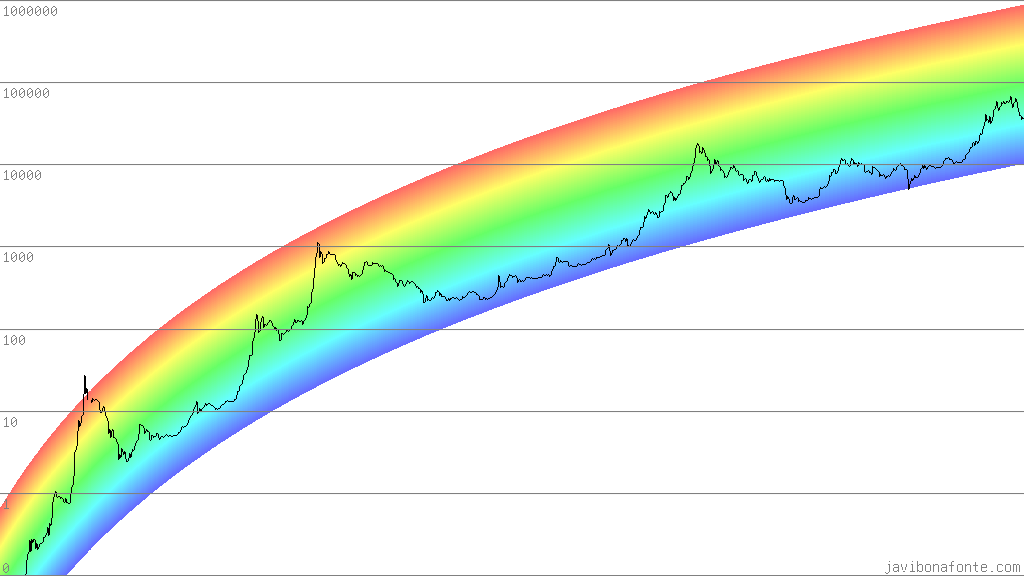
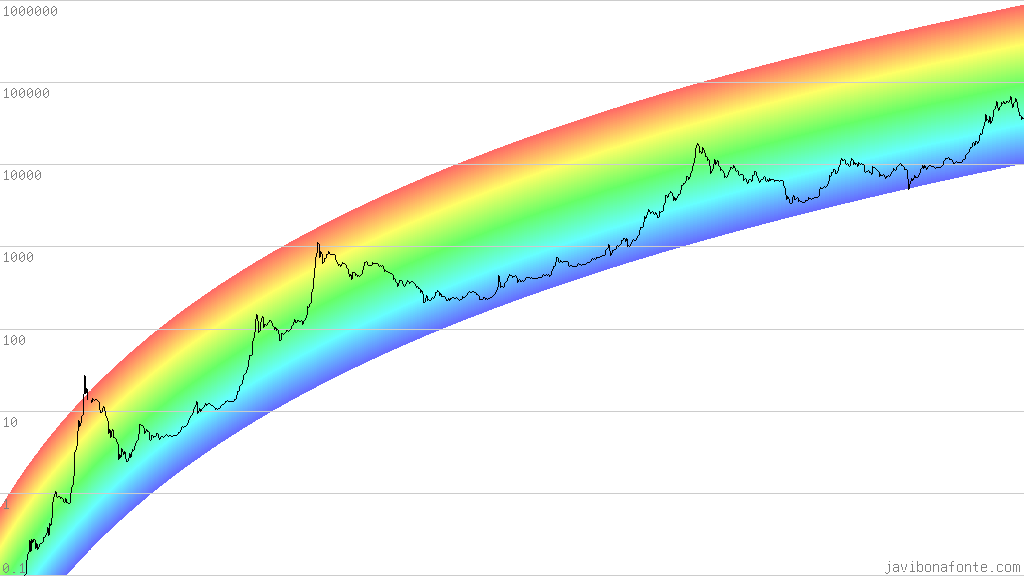
Axis work for both scales and more refactoring

diff --git a/src/myimgproc/myimgproc.c b/src/myimgproc/myimgproc.c
@@ -9,6 +9,7 @@
 #include <string.h>
 #include <MagickWand/MagickWand.h>
 
+#include "../util/util.h"
 #include "myimgproc.h"
 
 #define FONT "Unifont" // Font family
@@ -47,40 +48,6 @@ int magick_write_img (MagickWand *magick_wand, char *img_path) {
         fprintf (stderr, "Couldn't write image '%s'\n", img_path);
         code = 1;
     }
-
-    return code;
-}
-
-/**
- * Draws line of 'color' from 'sx','sy' to 'ex','ey' to image in
- * 'magick_wand'.
- */
-int draw_line (MagickWand *magick_wand, double sx, double sy,
-        double ex, double ey, char *color) {
-
-    int code = 0;
-    MagickBooleanType status;
-
-    DrawingWand *drawing_wand;
-    PixelWand *pixel_wand;
-
-    drawing_wand = NewDrawingWand ();
-    pixel_wand = NewPixelWand ();
-
-    // Sets drawing wand
-    PixelSetColor (pixel_wand, color);
-    DrawSetStrokeColor (drawing_wand, pixel_wand);
-
-    // Draws line
-    DrawLine (drawing_wand, sx, sy, ex, ey);
-    status = MagickDrawImage (magick_wand, drawing_wand);
-    if (status == MagickFalse) {
-        fprintf (stderr, "Couldn't draw line\n");
-        code = 1;
-    }
-
-    drawing_wand = DestroyDrawingWand (drawing_wand);
-    pixel_wand = DestroyPixelWand (pixel_wand);
 
     return code;
 }
@@ -164,29 +131,39 @@ int annotate_watermark (MagickWand *magick_wand, int width, int height,
 }
 
 /**
- * Paints logarithmic scale y axis lines on 'img' from 'min' to 'max'.
- * Each line marks '10 * previous line'.
+ * Paints y axis values on 'img' from 'min' to 'max'. The color is 'color'.
+ *
+ *      - If the scale is linear, each line marks 'step' more than the
+ *      previous one.
+ *      - If the scale is logarithmic, each line marks 'y * step' more than
+ *      the previous one.
  */
-int paint_log_axis (MagickWand *magick_wand, int width, int height,
-        float min, float max, char *color) {
+int annotate_axis_values (MagickWand *magick_wand, int width, int height,
+        float min, float max, int scale, float step, char *color) {
 
     int code = 0;
-    float log_min = log (min);
-    float log_max = log (max);
+
+    float scaled_min = apply_scale (scale, min);
+    float scaled_max = apply_scale (scale, max);
     int j, j_text;
+    float y;
 
     const int pad = 2;
     char text[10];
 
-    for (float y = min; y <= max; y *= 10) {
+    y = min;
+    while (y <= max) {
 
-        j = height - (log (y) - log_min) * height / (log_max - log_min);
+        j = height - (apply_scale (scale, y) - scaled_min) * height
+            / (scaled_max - scaled_min);
+        if (j == height)
+            j--;
 
-        code = draw_line (magick_wand, 0, j, width - 1, j, color);
-        if (code != 0)
-            return code;
+        if (y != (int) y)
+            sprintf (text, "%.1f", y);
+        else
+            sprintf (text, "%.0f", y);
 
-        sprintf (text, "%.0f", y);
         j_text = j + FONT_SIZE;
         if (j_text > height)
             j_text = j - pad;
@@ -194,6 +171,16 @@ int paint_log_axis (MagickWand *magick_wand, int width, int height,
         code = annotate_img (magick_wand, pad, j_text, 0, text, color);
         if (code != 0)
             return code;
+
+        switch (scale) {
+            case linear:
+            default:
+                y += step;
+                break;
+            case logarithmic:
+                y *= step;
+                break;
+        }
     }
 
     return code;

diff --git a/src/btc-charts.c b/src/btc-charts.c
@@ -4,8 +4,6 @@
  * Javi Bonafonte
  *
  * TODO
- *  - use only MagickWand ?
- *  - add anotations (prices, dates, ...)
  *  - stock to flow
  */
 
@@ -14,6 +12,7 @@
 #include <math.h>
 #include <MagickWand/MagickWand.h>
 
+#include "util/util.h"
 #include "myimg/myimg.h"
 #include "myimgproc/myimgproc.h"
 
@@ -31,8 +30,6 @@ struct row {
     char date[STR_LEN];
     float price;
 };
-
-enum scales {linear, logarithmic};
 
 /**
  * Returns number of lines in 'fp'.
@@ -108,26 +105,6 @@ int get_max_price (struct row *rows, int num_rows) {
     }
 
     return max_price;
-}
-
-/**
- * Applies 'scale' to 'value' and returns it.
- */
-float apply_scale (int scale, float value) {
-
-    switch (scale) {
-
-        case linear:
-            return value;
-
-        case logarithmic:
-            if (value <= 0)
-                return value;
-            return (float) log (value);
-
-        default:
-            return -1;
-    }
 }
 
 /**
@@ -243,9 +220,15 @@ int generate_img (struct row *rows, int num_rows) {
 
     paint_img_background (img, WIDTH, HEIGHT, 0, 0, 0, 0);
 
-    //paint_price (img, rows, num_rows, 0, 65000, linear);
+    /*
+    paint_axis (img, WIDTH, HEIGHT, 0, 65000, linear, 10000,
+            204, 204, 204, 255);
+    paint_price (img, rows, num_rows, 0, 65000, linear);
+    */
 
     paint_trololo (img, 554, num_rows + 554, 0.1, 1000000, logarithmic);
+    paint_axis (img, WIDTH, HEIGHT, 0.1, 1000000, logarithmic, 10,
+            204, 204, 204, 255);
     paint_price (img, rows, num_rows, 0.1, 1000000, logarithmic);
 
     // Writes 'img' buffer to file
@@ -276,9 +259,17 @@ int process_img () {
     if (code != 0)
         goto finalise;
 
+    /*
+    // Paints linear axis
+    code = annotate_axis_values (magick_wand, WIDTH, HEIGHT, 0, 65000,
+            linear, 10000, "rgb(128, 128, 128)");
+    if (code != 0)
+        goto finalise;
+        */
+
     // Paints log axis
-    code = paint_log_axis (magick_wand, WIDTH, HEIGHT,
-            0.1, 1000000, "rgb(128, 128, 128)");
+    code = annotate_axis_values (magick_wand, WIDTH, HEIGHT, 0.1, 1000000,
+            logarithmic, 10, "rgb(128, 128, 128)");
     if (code != 0)
         goto finalise;
 

diff --git a/src/myimg/myimg.c b/src/myimg/myimg.c
@@ -9,6 +9,7 @@
 #include <math.h>
 #include <png.h>
 
+#include "../util/util.h"
 #include "myimg.h"
 
 #define CHAN 4 // Channels of the color mode
@@ -95,6 +96,45 @@ void paint_img_background (int *img, int width, int height,
     for (x = 0; x < width; x++) {
         for (y = 0; y < height; y++)
             set_rgba (img, width, x, y, r, g, b, a);
+    }
+}
+
+/**
+ * Paints y axis lines on 'img' from 'min' to 'max'. The color is 'rgba'.
+ *
+ *      - If the scale is linear, each line marks 'step' more than the
+ *      previous one.
+ *      - If the scale is logarithmic, each line marks 'y * step' more than
+ *      the previous one.
+ */
+void paint_axis (int *img, int width, int height, float min, float max,
+        int scale, float step, int r, int g, int b, int a) {
+
+    float scaled_min = apply_scale (scale, min);
+    float scaled_max = apply_scale (scale, max);
+    int x, j;
+    float y;
+
+    y = min;
+    while (y <= max) {
+
+        j = height - (apply_scale (scale, y) - scaled_min) * height
+            / (scaled_max - scaled_min);
+        if (j == height)
+            j--;
+
+        for (x = 0; x < width; x++)
+            set_rgba (img, width, x, j, r, g, b, a);
+
+        switch (scale) {
+            case linear:
+            default:
+                y += step;
+                break;
+            case logarithmic:
+                y *= step;
+                break;
+        }
     }
 }
 

diff --git a/src/util/util.c b/src/util/util.c
@@ -1,0 +1,30 @@
+/**
+ * Library with my general purpose functions.
+ *
+ * Javi Bonafonte
+ */
+
+#include <math.h>
+
+#include "util.h"
+
+/**
+ * Applies 'scale' to 'value' and returns it.
+ */
+float apply_scale (int scale, float value) {
+
+    switch (scale) {
+
+        case linear:
+            return value;
+
+        case logarithmic:
+            if (value <= 0)
+                return value;
+            return (float) log (value);
+
+        default:
+            return -1;
+    }
+}
+

diff --git a/src/myimgproc/myimgproc.h b/src/myimgproc/myimgproc.h
@@ -4,4 +4,5 @@ enum corner {top_left, top_right, bottom_right, bottom_left};
 int magick_read_img (MagickWand *, char *);
 int magick_write_img (MagickWand *, char *);
 int annotate_watermark (MagickWand *, int, int, int, int, char *, char *);
-int paint_log_axis (MagickWand *, int, int, float, float, char *);
+int annotate_axis_values (MagickWand *, int, int, float, float, int, float,
+        char *);

diff --git a/src/myimg/myimg.h b/src/myimg/myimg.h
@@ -4,4 +4,6 @@ int *create_img (int, int);
 int get_img_index (int, int, int);
 void set_rgba (int *, int, int, int, int, int, int, int);
 void paint_img_background (int *, int, int, int, int, int, int);
+void paint_axis (int *, int, int, float, float, int, float, int, int, int,
+        int);
 int write_img (int *, char *, int, int);

diff --git a/src/util/util.h b/src/util/util.h
@@ -1,0 +1,4 @@
+
+enum scales {linear, logarithmic};
+
+float apply_scale (int, float);
